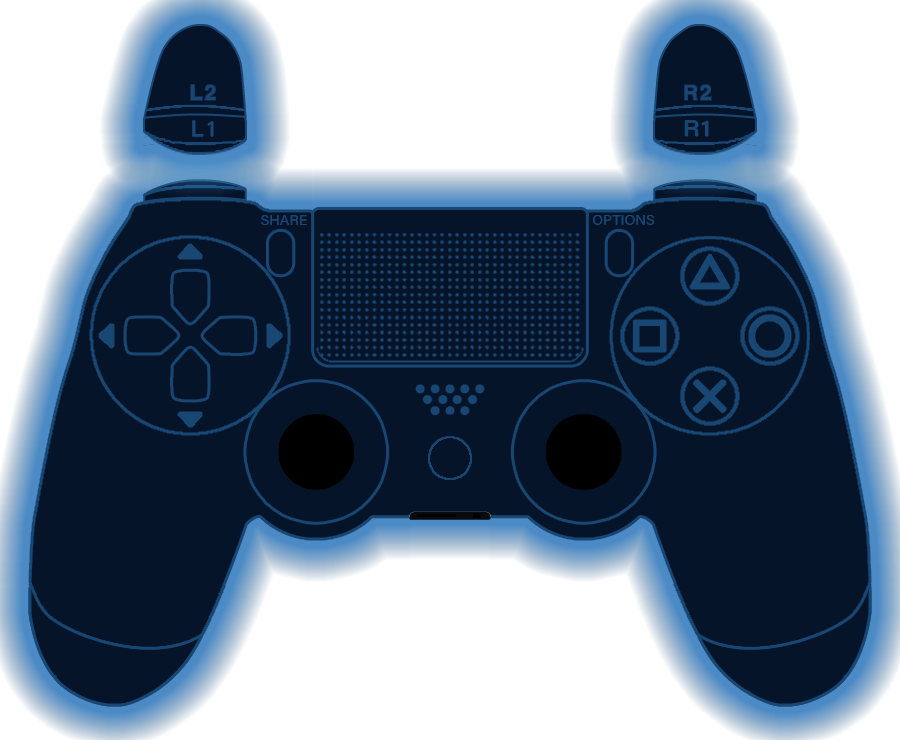
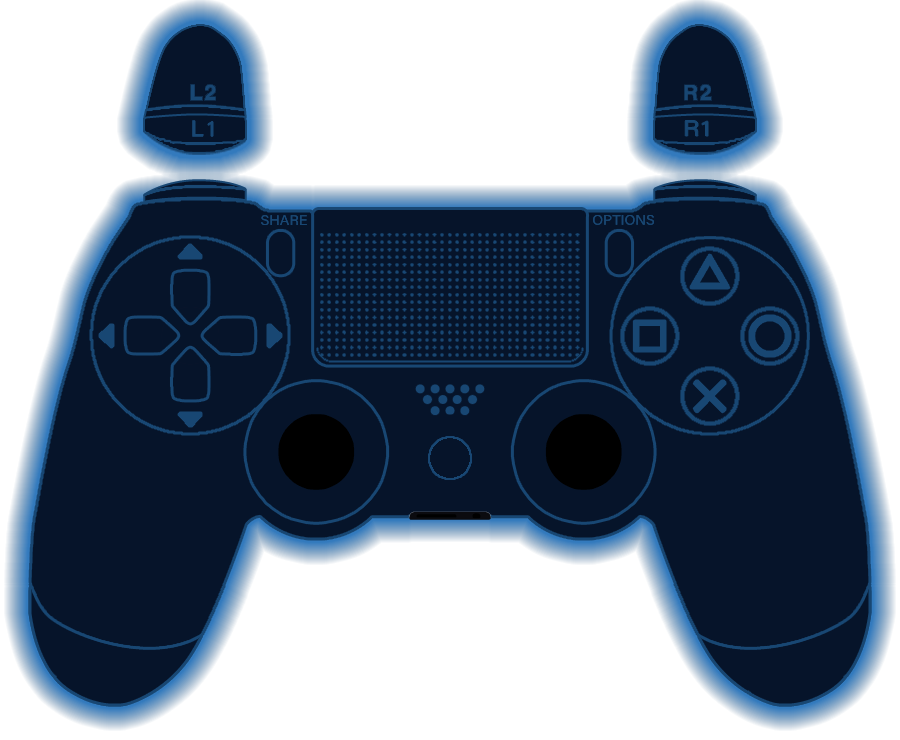
Add files via upload

Changed region(s): [[0.0, 0.0, 1.0, 1.0]]

diff --git a/PS4_no_glow.css b/PS4_no_glow.css
@@ -3,7 +3,7 @@
 /*Code setup and graphics by Jayraydee, Contact me on twitter @Jayraydee */
 
 .controller.custom{
-    background: url(base.png); 
+    background: url(noglowbase.png); 
     height: 740px;
     width: 900px;
     background-repeat:no-repeat;
@@ -307,6 +307,20 @@ width: 55px;
     background-repeat:no-repeat; 
 
 }
-
+.custom .meta {
+    width: 42px;
+    height: 42px;
+    position: absolute;
+    left: 428px;
+    bottom: 260px;
+}
+.custom .meta.pressed {
+    width: 43px;
+    height: 43px;
+    background: #3ca2bb;
+    border-radius: 100%;
+    opacity: 1;
+    display: block;
+}
 
 /*END P4S Controller Styling*/

diff --git a/PS4.css b/PS4.css
@@ -308,5 +308,19 @@ width: 55px;
 
 }
 
-
+.custom .meta {
+    width: 42px;
+    height: 42px;
+    position: absolute;
+    left: 428px;
+    bottom: 260px;
+}
+.custom .meta.pressed {
+    width: 43px;
+    height: 43px;
+    background: #3ca2bb;
+    border-radius: 100%;
+    opacity: 1;
+    display: block;
+}
 /*END P4S Controller Styling*/
